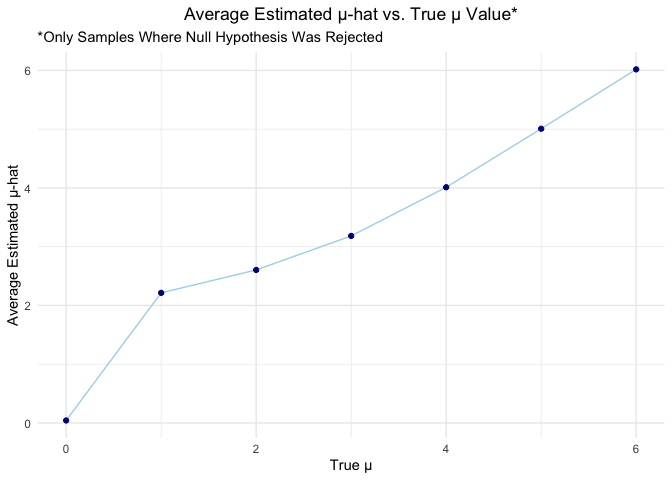
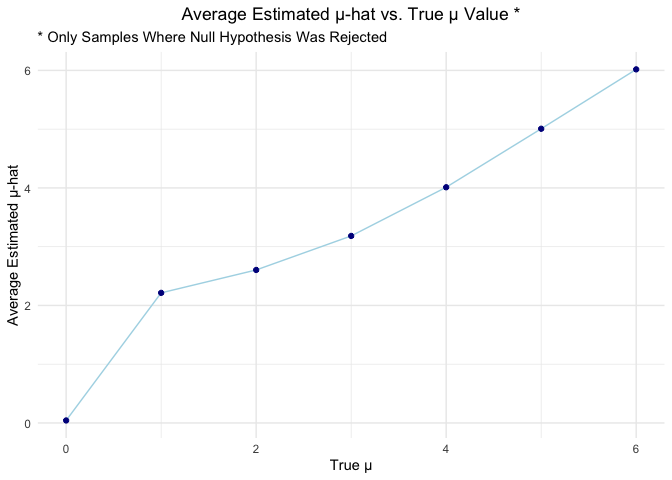
Polished! Final commit and push! :) Thank you so much and hope you like it!

Changed region(s): [[0.0625, 0.0, 0.7812, 0.0938]]

diff --git a/p8105_hw5_daq2107.md b/p8105_hw5_daq2107.md
@@ -29,7 +29,7 @@ distribution of birthday across the 365 days of the year, and we do not
 consider leap years.
 
 Instead of directly calculating the probability, we can make use of a
-simulation for a group of *n* people where we randomly assing them a
+simulation for a group of *n* people where we randomly assign them a
 birthday. In this case, instead of directly using dates, we can just use
 the range 1:365 corresponding to the days of the year. For this we need
 to also double check that our sampling allows for repeats, since we are
@@ -45,9 +45,9 @@ random samples and saw the use of the *sample()* function here:
 
 From here we can write a function that helps us determine the birthday
 duplicates, so we write a function that takes the parameter value of ‘n’
-birthdays and then calculates the probability of appearing more than
-once. I found a useful post in stack overflow to check for this and
-grabbed inspiration for my code:
+birthdays and then tells us if at least one of the birthdays appears
+more than once. I found a useful post on Stack Overflow to check for
+this and grabbed inspiration for my code:
 
 <https://stackoverflow.com/questions/71083995/identifying-duplicates-in-a-list-of-character-vectors-in-r>
 
@@ -73,7 +73,8 @@ birthday_dupl = function(n) {
   
   birth_sample = sample(1:365, size = n, replace = TRUE)
   
-  # Based on the StackOverflow article above, I can use the 'duplicated()' function to check for any duplicated values. Per the post, using 'any()' will return a Boolean TRUE or FALSE value:
+  # Based on the StackOverflow article above, I can use the 'duplicated()' function to check for any duplicated values.
+  # Per the post, using 'any()' will return a Boolean TRUE or FALSE value:
   
   any_dupl = any(duplicated(birth_sample))
   
@@ -82,7 +83,6 @@ birthday_dupl = function(n) {
   any_dupl
   
 }
-
 
 # Testing my function:
 
@@ -112,7 +112,8 @@ sim_bd =
     iter = 1:10000
   ) %>% 
   
-  #For this I first tried using the 'map()' function we covered in lecture, but my plot was not working. Then I did a quick Google search and saw that, for Boolean/logical values, I actually need to use the 'map_lgl()' function:
+  #For this I first tried using the 'map()' function we covered in lecture, but my plot was not working.
+  #Then I did a quick Google search and saw that, for Boolean/logical values, I actually need to use the 'map_lgl()' function:
   
   mutate(
     dupl_map = map_lgl(group, birthday_dupl) #Using same approach to mapping as in lecture
@@ -158,13 +159,22 @@ birthday_groups %>%
   geom_point() + # Putting all our points in scatter plot form
   theme_minimal() + #Using this like I did in Homework 4
   labs(
-    title = "Probability Distribution of Two Birthdays Shared in a Random Sample",
+    title = "Probability Distribution of At Least Two People\nSharing a Birthday in a Random Sample",
     x = "Group Size",
     y = "Probability of Two Birthdays Shared"
   )
 ```
 
 ![](p8105_hw5_daq2107_files/figure-gfm/probability_plot-1.png)<!-- -->
+
+**Plot Description:** As we can see from the plot above, the probability
+that two people in the same room share the same birthday increases as
+the group size (n) increases. It is important to note that the increase
+is non-linear, and follows a somewhat sigmoidal shape. In the case of
+very small groups, the probability is close to zero, and then increases
+fast once the group size reaches around n = 10. We can see that the
+probability is about 50% around when n = 25, and it becomes very close
+to 100% once you reach 50 people.
 
 ## Problem 2: Analyzing Longitudinal Study Data
 
@@ -183,7 +193,8 @@ names and be able to load our data at once:
 ``` r
 # Using a very similar approach as the one covered in lecture.
 
-# Saving my result as a new variable per the instructions, and using the 'purrr' package with the 'map' function:
+# Saving my result as a new variable per the instructions, and using the 'purrr'
+# package with the 'map' function:
 
 full_long_names = 
   tibble(
@@ -366,11 +377,12 @@ important variables are contained within others, such as the name, which
 includes the type of study group (i.e., control or experiment), and the
 subject ID number.
 
-Moreover, we see that our data is panel data, or in other words, it is
-in wide format. Thus, we can use our old and reliable *pivot_longer()*
-function to grab all weekly observations and put them in long format,
-and that way, our tidy data frame should contain the study group, the
-week, the subject ID, and what the outcome was.
+Moreover, we see that our data is panel data, where each weekly
+observation is saved in wide format, with each week being a separate
+column. This is hard to manage. Thus, we can use our old and reliable
+*pivot_longer()* function to grab all weekly observations and put them
+in long format, and that way, our tidy data frame should contain the
+study group, the week, the subject ID, and what the outcome was.
 
 ``` r
 # Creating a new tidy data frame for my longitudinal data:
@@ -380,13 +392,15 @@ tidy_long_df =
   # We can clean variable names just like we have done in previous asssignments using the janitor package:
   janitor::clean_names() %>% 
   
-  # From here, we can use a similar approach as the one done in lecture and make use of the 'str_replace' function to remove the '.csv' name from the files column in our data frame:
+  # From here, we can use a similar approach as the one done in lecture and make use of the 'str_replace'
+  # function to remove the '.csv' name from the files column in our data frame:
   mutate(
     files = str_replace(files, ".csv", ""),
     group = str_sub(files, 1, 3) # Grabbing only the first three characters of name
   ) %>% 
   
-  # Now we need to change our data from the 'wide' format to 'long' format using our well-known 'pivot_longer()' function:
+  # Now we need to change our data from the 'wide' format to 'long' format using our well-known
+  # 'pivot_longer()' function:
   
   pivot_longer(
     week_1:week_8, # Grabbing the number of weeks included in the df
@@ -394,7 +408,8 @@ tidy_long_df =
     values_to = "outcome",
     names_prefix = "week_"
   ) %>% 
-  # Had issues in steps below with the data analysis for the spaguetti chart and it was because weeks was a string rather than a numeric value, so mutating here:
+  # Had issues in steps below with the data analysis for the spaghetti chart and it was because weeks 
+  # was detected as a string rather than a numeric value, so mutating here:
   
   mutate(week = as.numeric(week)) %>% 
   
@@ -420,7 +435,7 @@ head(tidy_long_df, 5)
 ### Plotting Subjects Over Time
 
 Now that we have our data tidied, we can proceed to create an
-*speguetti* plot (using ggplot), which is simply a plot to visualize
+*spaghetti* plot (using ggplot), which is simply a plot to visualize
 outcomes across time where each line represents a different participant.
 We will make use of *geom_path()* to connect observations for the same
 subject. This, combined with study branch, will allow us to look at
@@ -436,13 +451,14 @@ experiment), we need to facet by the *group* variable in our data frame.
 
 tidy_long_df %>% 
   
-  # Making use of case match to make sure my study arms are appropriately labeled. Same process as in previous homeworks:
+  # Making use of case match to make sure my study arms are appropriately labeled.
+  # Same process as in previous homeworks:
   
   mutate(
     group = case_match(
       group,
-      "con" ~ "Control",
-      "exp" ~ "Experiment"
+      "con" ~ "Control Arm",
+      "exp" ~ "Experimental Arm"
     )
   ) %>% 
   
@@ -456,20 +472,20 @@ tidy_long_df %>%
   theme(legend.position = "none", # Removing the subject legends
         plot.title = element_text(hjust = 0.5)) + # Centering the title
   labs(
-    title = "Subject Outcome Across Time by Study Branch",
+    title = "Subject Outcome Across Time by Study Arm",
     x = "Week Number",
     y = "Subject Outcome"
   )
 ```
 
     ## Warning: There was 1 warning in `mutate()`.
-    ## ℹ In argument: `group = case_match(group, "con" ~ "Control", "exp" ~
-    ##   "Experiment")`.
+    ## ℹ In argument: `group = case_match(group, "con" ~ "Control Arm", "exp" ~
+    ##   "Experimental Arm")`.
     ## Caused by warning:
     ## ! `case_match()` was deprecated in dplyr 1.2.0.
     ## ℹ Please use `recode_values()` instead.
 
-![](p8105_hw5_daq2107_files/figure-gfm/spaguetti_plot-1.png)<!-- -->
+![](p8105_hw5_daq2107_files/figure-gfm/spaghetti_plot-1.png)<!-- -->
 
 **Describing the Plot:** As we can see from the trend above, the study
 subjects in the control arm have highly variable outcomes across the
@@ -481,25 +497,26 @@ of the study.
 On the other hand, the participants in the experimental arm of the study
 display an increasing trend in the study outcome across the eight weeks
 of the study. The maximum outcome value in this arm at Week 8 was 6.95,
-which is 4.6 units difference from the higher value on the control arm
-at Week 8.
+which is 4.6 units higher than the highest value in the control arm at
+Week 8.
 
-Overall, based on this data, I would say that there is a clear
-difference in outcomes between both study arms, with the experimental
-arm showing a clear increasing trend. We then may have preliminary
-evidence to determine a potential association between the treatment and
-outcome of interest, but not yet able to determine full causality.
+Overall, based on this data, I would suggest that there is a clear
+difference in outcome trends between both study arms, with the
+experimental arm showing a consistent increasing trend across time. We
+then may have preliminary evidence to determine a potential association
+between the treatment and outcome of interest, but not yet able to
+determine full causality.
 
-## Problem 3: Analyzing Longitudinal Study Data
+## Problem 3: Analyzing Power Using Simulation
 
 ### Creating a Function for Simulation
 
-For this problem, we can use a very similar approach like the ones that
-we utilized for Problem 1, were we create a function to run a t-test
-given a changeable value for *μ* and fixed values for both *σ* and *n*.
-This is very similar to the example we covered in our *Simulation*
-lecture. The main difference compared with Problem 1 is that, in this
-case, we *do* make use of our old and reliable *rnorm()* function:
+For this problem, we can use a very similar approach to the one utilized
+for Problem 1, where we create a function to run a t-test given a
+changeable value for *μ* and fixed values for both *σ* and *n*. This is
+very similar to the example we covered in our *Simulation* lecture. The
+main difference compared with Problem 1 is that, in this case, we *do*
+make use of our old and reliable *rnorm()* function:
 
 ``` r
 # Creating a function to run our simulation, where our input parameter
@@ -511,7 +528,7 @@ sim_p3 = function(mu_value, n = 30, sigma = 5) {
   # We can now generate our random sample with our fixed number of observations and sigma:
   
   sim_data = tibble(
-     x = rnorm(n, mean = mu_value, sd = sigma),
+     x = rnorm(n, mean = mu_value, sd = sigma)
   )
   
   # Now, per the hint provided, we can just run a t-test to assess the null
@@ -523,7 +540,8 @@ sim_p3 = function(mu_value, n = 30, sigma = 5) {
   t_test = t.test(sim_data$x, mu = 0) %>% 
     broom::tidy()  # Cleaning our results, per assignment hint
   
-# Now, per the assignment instructions, we are also asked to keep the sample mu and p-value. Recall we obtained the estimate and the p-value from the broom::tidy step above:
+# Now, per the assignment instructions, we are also asked to keep the sample mu and p-value.
+# Recall we obtained the estimate and the p-value from the broom::tidy step above:
     
   t_test %>% 
     select(sample_mu = estimate, p_value = p.value)
@@ -545,9 +563,9 @@ sim_p3(0)
 ### Creating a Data Frame from Multiple True μ
 
 We have now created a function utilizing the parameters established, and
-we can now vary the value μ. Now, per the assignment instructios, we can
-run 5000 iterations for when μ = 0, and then repeat this procedure for μ
-= {1, 2, 3, 4, 5, 6}.
+we can now vary the value μ. Now, per the assignment instructions, we
+can run 5000 iterations for when μ = 0, and then repeat this procedure
+for μ = {1, 2, 3, 4, 5, 6}.
 
 To do this, we can use a very similar approach to what we did in Problem
 1 and following the *Simulation* lecture notes. We first start with the
@@ -604,7 +622,7 @@ H_0: μ = 0, with α = 0.05
 
 First, we need to calculate the proportion of time the null was rejected
 or, in other words, the power of the test. We can do this by creating a
-variabel where we check if the saved p_values for each iteration are
+variable where we check if the saved p_values for each iteration are
 below our significance level (α = 0.05), which would allow us to reject
 the null. Then, we can just simply group the results of our simulation
 (using *group_by()*) by each true value of μ and calculate the mean of
@@ -618,7 +636,7 @@ sim_p3_reject =
   mutate(
     reject = (p_value < 0.05) # this would yield either TRUE or FALSE
   ) %>% 
-  group_by(mu_value) %>% # We can now gorup by our true μ values
+  group_by(mu_value) %>% # We can now group by our true μ values
   summarize(
     reject_prop = mean(reject)
   )
@@ -641,24 +659,26 @@ sim_p3_reject %>%
 ![](p8105_hw5_daq2107_files/figure-gfm/reject_null-1.png)<!-- -->
 
 **Describing the Association:** From the figure above, we can see that
-there is an undeniable positive association between the effect size (the
-true value of μ) and power (the proportion of times the null hypothesis
-gets rejected).
+there is a clear positive association between the effect size (the true
+value of μ) and power (the proportion of times the null hypothesis gets
+rejected).
 
-The more that the true population means starts distancing itself from
-zero, the proportion of null hypothesis being rejected increases. We can
-see this rellationship is sigmoidal, and about when true μ = 4, the
-proportion of all rejected null hypothesis becomes extremely close to 1
-(100% of samples).
+The more that the true population mean moves away from zero, the
+proportion of null hypothesis being rejected increases. We can see this
+relationship is sigmoidal, and about when true μ = 4, the proportion of
+all rejected null hypothesis becomes extremely close to 1 (but just
+below it). Similarly, when true μ = 0, the null hypothesis is true, so
+at this observation, the probability of rejecting the null hypothesis
+equals the Type I error rate. Thus, the value on the y-axis is the Type
+I error value.
 
-### The Fight Between μ̂ against the True μ
+### The Fight Between Estimated μ̂ and True μ
 
-Now, let’s create another plot showing the showing the average estimate
-of μ̂ against the true value of μ. To do this, we can take a similar
-approach like the one we did above, grouping by the true μ value and
-then, since we already hae a *sample_mu* variable, we can simply find
-the mean of it using *summarize()*. Then, we can just create the plot
-using ggplot:
+Now, let’s create another plot showing the average estimate of μ̂ against
+the true value of μ. To do this, we can take a similar approach like the
+one we did above, grouping by the true μ value and then, since we
+already have a *sample_mu* variable, we can simply find the mean of it
+using *summarize()*. Then, we can just create the plot using ggplot:
 
 ``` r
 p3_plot_2 =
@@ -705,8 +725,8 @@ p3_plot_3 =
   theme_minimal() +
   theme(plot.title = element_text(hjust = 0.5)) + # Centering the title
   labs(
-    title = "Average Estimated μ-hat vs. True μ Value*",
-    subtitle = "*Only Samples Where Null Hypothesis Was Rejected",
+    title = "Average Estimated μ-hat vs. True μ Value *",
+    subtitle = "* Only Samples Where Null Hypothesis Was Rejected",
     x = "True μ",
     y = "Average Estimated μ-hat",
   )
@@ -719,7 +739,7 @@ p3_plot_3
 ![](p8105_hw5_daq2107_files/figure-gfm/muhat_vs_mu_reject-1.png)<!-- -->
 
 To better visualize the contrast between these two plots, let’s create
-an overlayed plot. We can make use of most of the code already written
+an overlaid plot. We can make use of most of the code already written
 above:
 
 ``` r
@@ -753,7 +773,7 @@ df_plot3 =
 df_plot4 =
   bind_rows(df_plot2, df_plot3)
 
-# And now making my overlapped po, again, using same structure as plots above:
+# And now making my overlapped plot, again, using same structure as plots above:
 
 p3_plot_4 =
   df_plot4 %>% 
@@ -763,7 +783,7 @@ p3_plot_4 =
   theme_minimal() +
   theme(plot.title = element_text(hjust = 0.5)) + # Centering the title
   labs(
-    title = "Average Estimated μ-hat vs. True μ Value*",
+    title = "Average Estimated μ-hat vs. True μ Value",
     x = "True μ",
     y = "Average Estimated μ-hat",
     color = "Sample Type"
@@ -779,27 +799,30 @@ p3_plot_4
 **Plots Description & Question Answer:** The sample average of μ-hat
 across tests for which the null is rejected is only approximately equal
 to the true value of μ when the true μ is relatively large (μ = {4, 5,
-6}).
+6}), and when the true μ = 0.
 
 As we can see from the three plots above, when considering all the
 samples, the values for the estimated μ-hat almost perfectly align with
-the values of the true μ. This result was interesting to me, but I
-believe it makes sense since, when we average all 5,000 simulated
-samples, for each value of μ —— and just like we saw in our *Simulation*
-lecture —— the sample mean estimates are expected to be more centered
-around the true population mean.
+the values of the true μ. This result, while interesting, also makes
+sense since, when we average all 5,000 simulated samples, for each value
+of μ — and just like we saw in our *Simulation* lecture — the sample
+mean estimates are expected to be more centered around the true
+population mean. Also note that, when true μ = 0, the average estimated
+mean for the rejected samples is also zero since this test is two-sided
+test and, when taking thousands of simulated samples, the samples that
+reject and fail to reject the null balance/cancel each other out.
 
 Moreover, we can see that when we only take the samples for which we
 reject the null hypothesis, the average estimated μ-hat deviates from
-the true μ values, in particular when μ = {1, 2 3}. This also makes
+the true μ values, in particular when μ = {1, 2, 3}. This also makes
 sense, and it is actually in agreement with what we observed in our
 Power vs. μ graph: when we have low power, only samples with extreme
 estimated μ-hat values will be able to yield a p-value that is below the
 0.05 significance threshold. However, as we increase in our true μ
-values, power (the proportion of null hypothesis rejects) also
-increases, and thus a greater proportion of the simulated samples will
-reject the null hypothesis, making very little distinction between the
-all samples set.
+values, power (the probability of rejecting a false null hypothesis)
+also increases, and thus a greater proportion of the simulated samples
+will reject the null hypothesis, making the all-samples set and the
+rejects-only set very similar.
 
 Per the explanation above, we can see that in both the power vs. true
 effect and in the average estimated μ vs. true μ graphs, it is around
